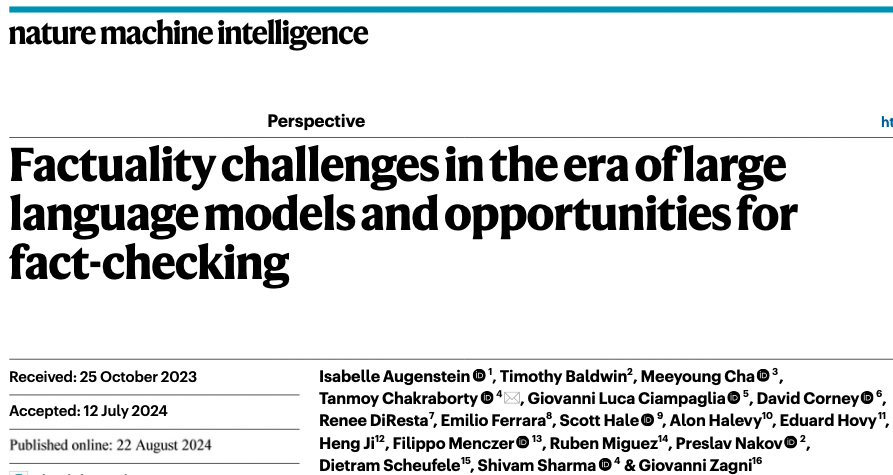
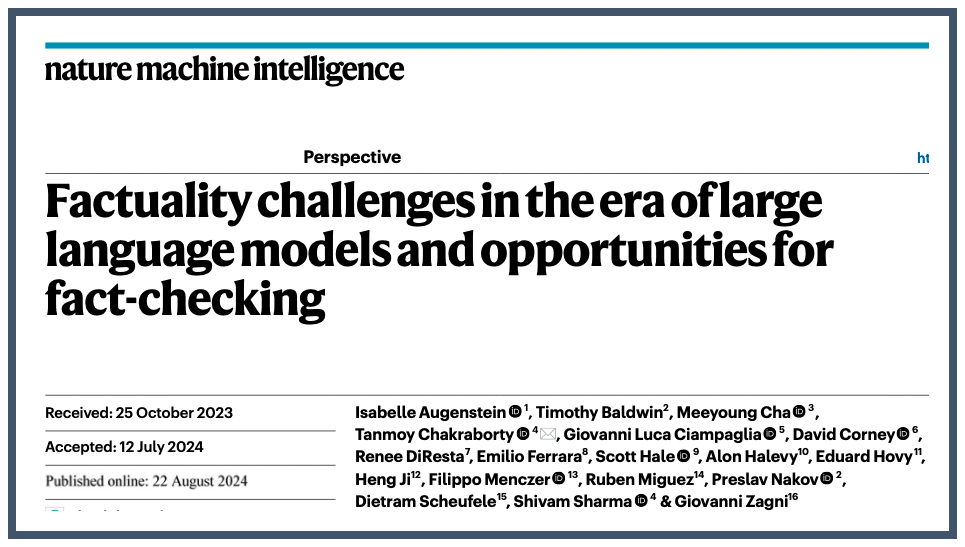
Tweaking image borders

Changed region(s): [[0.0, 0.0, 1.0, 1.0]]

diff --git a/_posts/2024-08-28-factuality.md b/_posts/2024-08-28-factuality.md
@@ -5,14 +5,14 @@ title: Factuality, LLMs and fact checking
 ---
 
 
-<img  src="/images/factuality/title_block_b.png" alt="Screenshot of paper heading: Nature Machine Intelligence. Factuality challenges in the era of large language models and opportunities for  fact-checking" width="300" align="right"/>
+<img  src="/images/factuality/title_block.png" alt="Screenshot of paper heading: Nature Machine Intelligence. Factuality challenges in the era of large language models and opportunities for  fact-checking" width="300" align="right"/>
 
 
 A few months after ChatGPT was launched, I joined a group of academics and practitioners with expertise in the intersection of disinformation, fact checking and AI. We were all concerned that making these new generative AI tools widely available would lead to a proliferation of false information online that would be hard to distinguish from reliable information. We spent some time discussing our worries but also our excitement at the possibilities that such models raise. Eventually, after much back and forth, we organised our ideas and polished our arguments, and I'm very proud that the resulting paper, "[Factuality challenges in the era of large language models and opportunities for fact-checking](https://rdcu.be/dRFy0)", has just been published in Nature Machine Intelligence. Rather than summarise the whole paper, I'd like to highlight just a few of the ideas.
 
 ## Nothing is new under the sun
 
-<img  src="/images/factuality/shannon1948_b.png" alt="Extract from paper: In his pioneering work on information theory published in 1948, Claude Shannon proposed simple statistical language models based on letter and word frequencies capable of generating text that, although devoid of meaning, resembled human language." width="300" align="right"/>
+<img  src="/images/factuality/shannon1948.png" alt="Extract from paper: In his pioneering work on information theory published in 1948, Claude Shannon proposed simple statistical language models based on letter and word frequencies capable of generating text that, although devoid of meaning, resembled human language." width="400" align="right"/>
 
 ChatGPT was launched less than two years ago in November 2022 and instantly caught the public imagination. It's easy to use and produces fluent text in response to pretty much any prompt. It helped launch or accelerate dozens of similar projects and soon everyone was familiar with generative AI. But the core ideas go back to at least 1948 and Claude Shannon's work on statistical language models. What's new is the scale: scraping billions of web pages of text and training models with billions of parameters just wasn't practical until the price of cloud storage and computing dropped sufficiently. (There's new technology too, of course, but as always it's built on what was there before.) It's easy to get lost in the hype, but science really is an incremental, communal effort.
 
@@ -20,7 +20,7 @@ ChatGPT was launched less than two years ago in November 2022 and instantly caug
 
 ## It's not just the hallucinations
 
-<img  src="/images/factuality/halo_effect_b.png" alt="Extract from paper: The proficiency of a model in addressing one topic might lead users to believe that it can excel in any open-domain conversation, an example of a cognitive bias known as the halo effect" width="300" align="right"/>
+<img  src="/images/factuality/halo_effect.png" alt="Extract from paper: The proficiency of a model in addressing one topic might lead users to believe that it can excel in any open-domain conversation, an example of a cognitive bias known as the halo effect" width="400" align="right"/>
 
 We all know that GenAI models hallucinate: while they answer many questions correctly and can be quite creative, they are often just plain wrong. While this is itself a problem, it's made worse by the fact that the output is *fluent* and reads like confident expert opinion, which means that it is easy to be misled. We also discuss the *halo effect*: if people start by asking a chatbot questions where the generated answer happens to be correct, they are more likely to believe it next time, leading to more (misplaced) trust. Add to this incomplete or out-of-date training data and exaggerated evaluation claims, and it's clear that genAI is prone to produce unreliable information and always will be. 
     
@@ -33,7 +33,7 @@ It's worth mentioning that the core of all genAI models is fundamentally the sam
 
 ## What's the worst that could happen?
 
-<img  src="/images/factuality/bypassing-detection_b.png" alt="Extract from paper:  GenAI tools can generate infinite variations of the same claim. Even if each variant reaches a small number of people, the cumulative impact of these variants could add to that of a highly viral piece while remaining invisible to fact-checkers." width="300" align="right"/>
+<img  src="/images/factuality/bypassing-detection.png" alt="Extract from paper:  GenAI tools can generate infinite variations of the same claim. Even if each variant reaches a small number of people, the cumulative impact of these variants could add to that of a highly viral piece while remaining invisible to fact-checkers." width="400" align="right"/>
 
 One of the easiest and most alarming parts of the paper to write was to list out the bad things that could happen. One that particularly concerns me in my role at [Full Fact](https://fullfact.org/) is the potential for propagandists to generate endless variations of the same claim and sharing them via many different channels. The cumulative effect is the same: lots of people see the misleading content and some are influenced by it. But the diversity makes it harder to detect this as viral content, as each version is only seen by a few people. So fact checkers (and social media companies) might find it harder to identify harmful, impactful content.
 
@@ -42,14 +42,14 @@ One of the easiest and most alarming parts of the paper to write was to list out
 ## What can we do to fix this?
 
 
-<img  src="/images/factuality/provenance_b.png" alt="As synthetic text generated by LLMs becomes ubiquitous, fully human-written text may become more valuable. Technologies and standards for content authenticity and provenance already exist for video and image content." width="300" align="right"/>
+<img  src="/images/factuality/provenance.png" alt="As synthetic text generated by LLMs becomes ubiquitous, fully human-written text may become more valuable. Technologies and standards for content authenticity and provenance already exist for video and image content." width="400" align="right"/>
 
 Thankfully, it's not all doom and gloom. GenAI providers who don't want to mislead their users can use RAG models, especially if tied to up-to-date knowledge bases, to reduce some forms of misleading hallucinations. And while automatic recognition of AI generated content remains hard, steps are being taken to allow authentic content to be associated with provenance information, so people (and tools) know it is trustworthy. Or at least, human-generated.
 
 
 ## Fact checking in this brave new world
 
-<img  src="/images/factuality/transcripts_b.png" alt="LLMs can transcribe speeches, debates, interviews, online videos and news broadcasts, summarize extensive documents and help to create concise lists of crucial claims." width="300" align="right"/>
+<img  src="/images/factuality/transcripts.png" alt="LLMs can transcribe speeches, debates, interviews, online videos and news broadcasts, summarize extensive documents and help to create concise lists of crucial claims." width="400" align="right"/>
 
 
 And the best news is that fact checkers can make direct use of this new technology! While genAI can't tell us if a claim is true, misleading or false, it can be used to scale-up media monitoring. For example, finding harmful claims in long videos or podcasts can take fact checkers hours. While accurate transcripts are available, spoken word tends to be quite repetitive, meandering, unstructured and repetitive. GenAI can help by providing readable summaries of long transcripts suitable for further analysis. So instead of ploughing through hours of low-quality videos, fact checkers can use AI to help them focus on the most likely suspects.
@@ -57,7 +57,7 @@ And the best news is that fact checkers can make direct use of this new technolo
 
 
 ## Dual-edge sword
-<img  src="/images/factuality/landscape_b.png" alt="The landscape of factuality in LLMs presents a dual-edged sword, encompassing both formidable challenges and promising opportunities for the domain of fact-checking." width="300" align="right"/>
+<img  src="/images/factuality/landscape.png" alt="The landscape of factuality in LLMs presents a dual-edged sword, encompassing both formidable challenges and promising opportunities for the domain of fact-checking." width="400" align="right"/>
 
 As we conclude in the paper, "the landscape of factuality in LLMs presents a dual-edged sword, encompassing both formidable challenges and promising opportunities for the domain of fact-checking." There is a lot of hype. There are serious concerns about the environmental impact of these tools, the way the training data is collected and processed and the pollution of the information space we all rely on. But perhaps there are glimmers of hope amongst the clouds.
 
